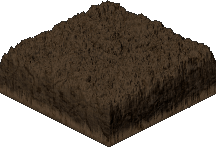
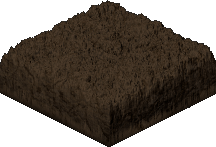
CHG: Lowered the brightness of earth blocks and floor textures.

Changed region(s): [[0.0, 0.5714, 0.6667, 1.0], [0.6667, 0.5986, 1.0, 0.8707]]

diff --git a/app/src/main/java/impcity/game/ImpCity.java b/app/src/main/java/impcity/game/ImpCity.java
@@ -1981,7 +1981,7 @@ public class ImpCity implements PostRenderHook, GameInterface
         {
             for(int j=-d; j<=d; j++)
             {
-                map.setColor(p.x + i * Map.SUB, p.y + j * Map.SUB, 0xFFA0A0A0);
+                map.setColor(p.x + i * Map.SUB, p.y + j * Map.SUB, 0xFF909090);
             }            
         }
     }
